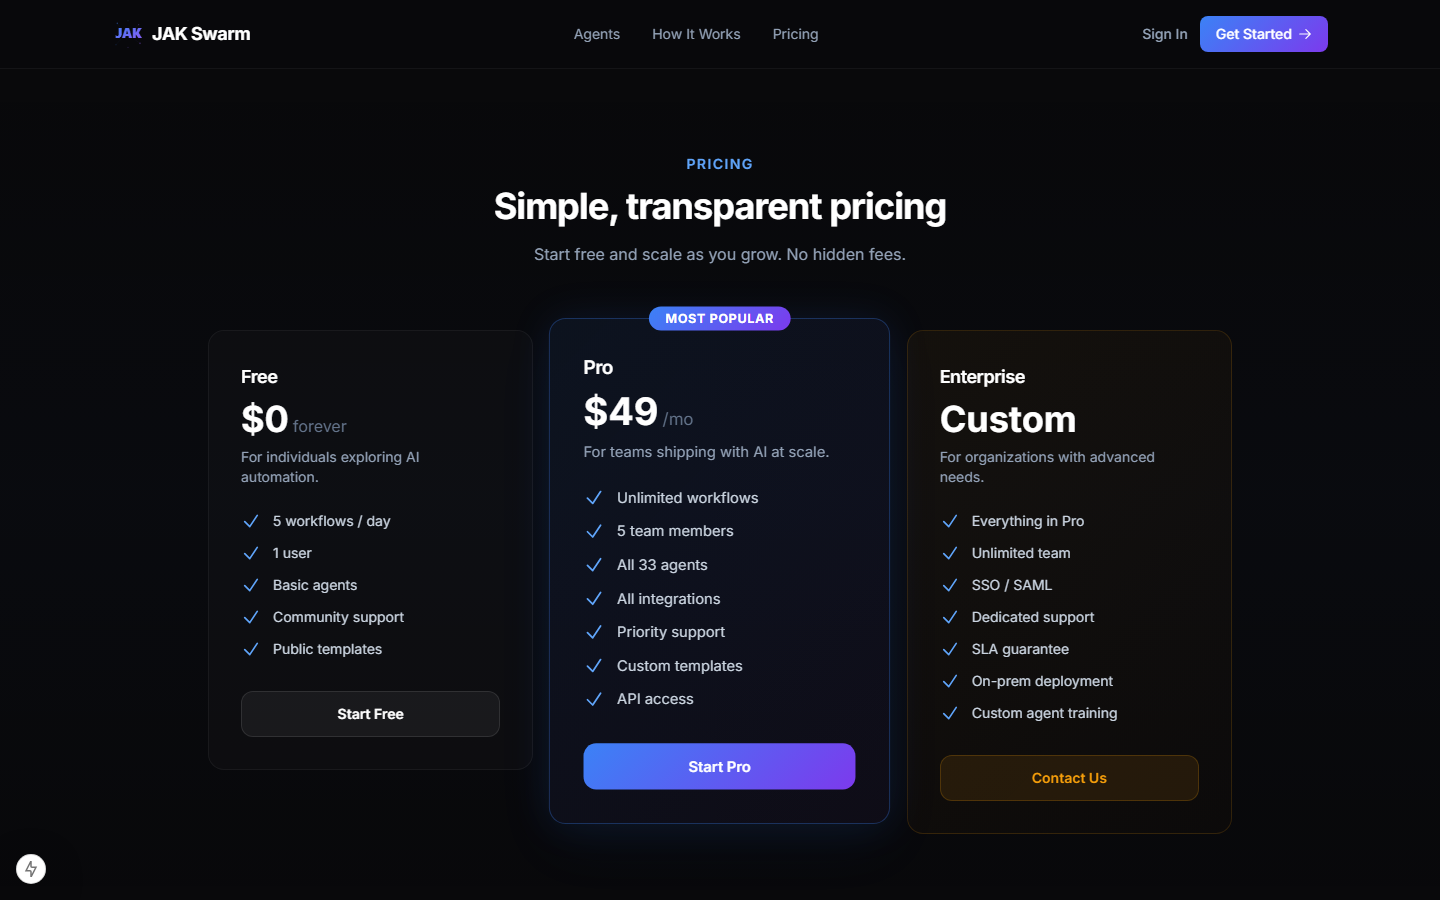
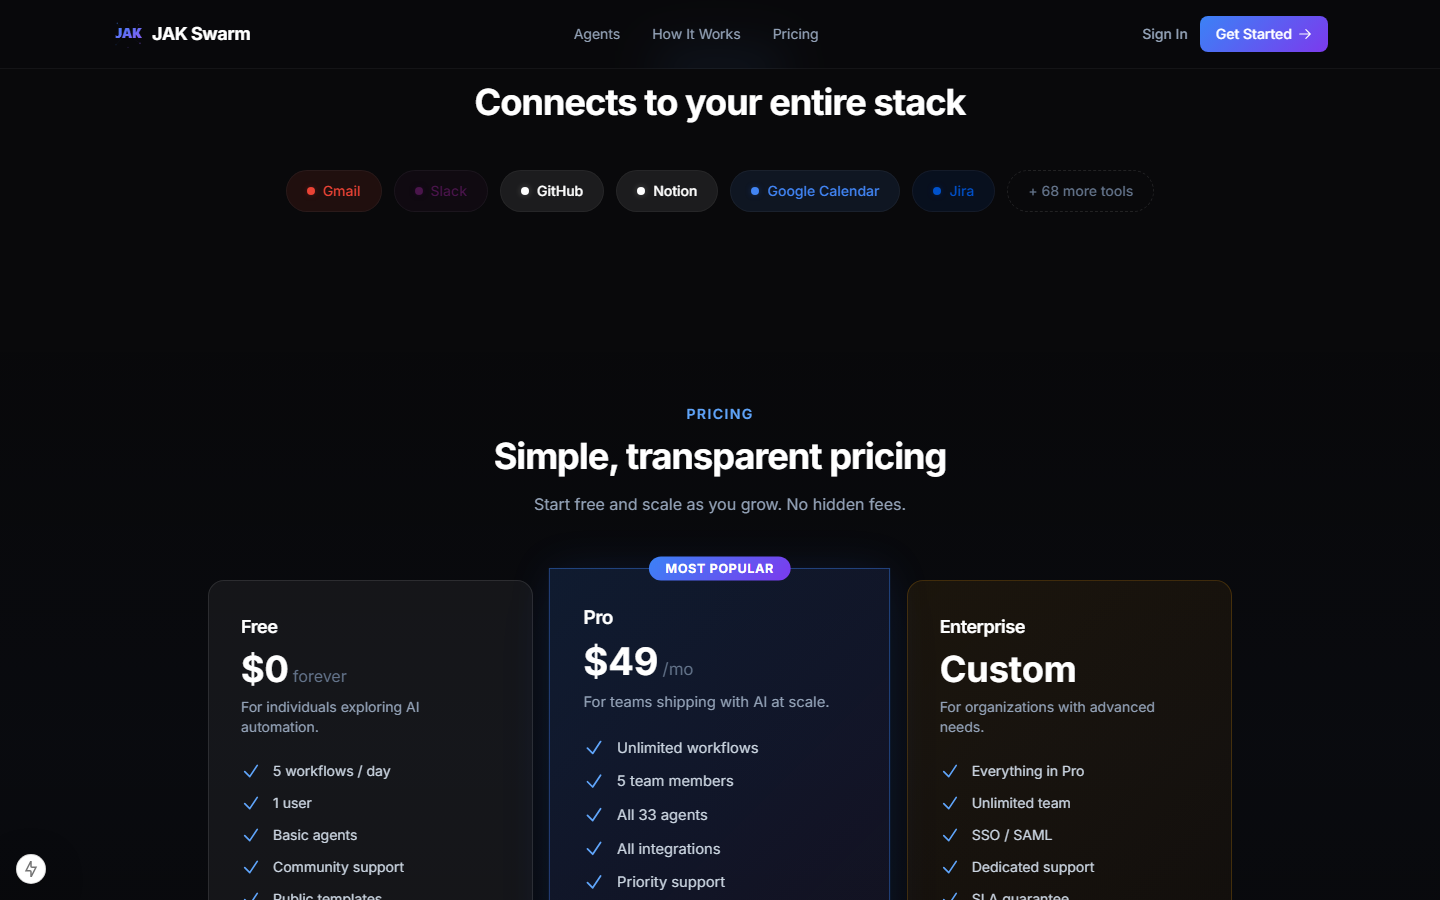
Fix UI contrast issues: agent cards visible, pricing cards brighter
- Fixed glass-card opacity from 0.03 to 0.06 (cards now visible on dark bg)
- Fixed animate-fade-up: removed initial opacity:0 that made cards invisible
  on fast scroll (animation now uses fill-mode:both instead)
- Boosted pricing card backgrounds (Free: 0.02→0.05, Pro: 0.08→0.15,
  Enterprise: 0.05→0.08) and border opacity
- Updated screenshots with fixed visuals
- Cleaned up temp screenshot files

Build: 11/11 | Tests: 56/56

diff --git a/apps/web/src/app/page.tsx b/apps/web/src/app/page.tsx
@@ -581,15 +581,15 @@ export default function HomePage() {
                   }`}
                   style={{
                     background: tier.highlighted
-                      ? 'linear-gradient(135deg, rgba(59,130,246,0.08), rgba(139,92,246,0.05))'
+                      ? 'linear-gradient(135deg, rgba(59,130,246,0.15), rgba(139,92,246,0.08))'
                       : tier.accent === 'gold'
-                      ? 'linear-gradient(135deg, rgba(245,158,11,0.05), rgba(217,119,6,0.02))'
-                      : 'rgba(255,255,255,0.02)',
+                      ? 'linear-gradient(135deg, rgba(245,158,11,0.08), rgba(217,119,6,0.04))'
+                      : 'rgba(255,255,255,0.05)',
                     border: tier.highlighted
-                      ? '1px solid rgba(59,130,246,0.3)'
+                      ? '1px solid rgba(59,130,246,0.4)'
                       : tier.accent === 'gold'
-                      ? '1px solid rgba(245,158,11,0.15)'
-                      : '1px solid rgba(255,255,255,0.05)',
+                      ? '1px solid rgba(245,158,11,0.2)'
+                      : '1px solid rgba(255,255,255,0.1)',
                     boxShadow: tier.highlighted
                       ? '0 0 40px rgba(59,130,246,0.1), 0 20px 60px rgba(59,130,246,0.05)'
                       : 'none',

diff --git a/apps/web/src/app/globals.css b/apps/web/src/app/globals.css
@@ -159,10 +159,10 @@
 
   /* Enhanced glassmorphism */
   .glass-card {
-    background: rgba(255, 255, 255, 0.03);
+    background: rgba(255, 255, 255, 0.06);
     backdrop-filter: blur(16px);
     -webkit-backdrop-filter: blur(16px);
-    border: 1px solid rgba(255, 255, 255, 0.08);
+    border: 1px solid rgba(255, 255, 255, 0.12);
   }
 
   .glass-card-light {
@@ -260,15 +260,14 @@
     box-shadow: 0 0 25px rgba(59, 130, 246, 0.4), 0 0 50px rgba(59, 130, 246, 0.15);
   }
 
-  /* Subtle entrance animation */
+  /* Subtle entrance animation — visible by default, enhanced with animation */
   @keyframes fade-up {
     from { opacity: 0; transform: translateY(16px); }
     to { opacity: 1; transform: translateY(0); }
   }
 
   .animate-fade-up {
-    animation: fade-up 0.5s cubic-bezier(0.33, 1, 0.68, 1) forwards;
-    opacity: 0;
+    animation: fade-up 0.6s cubic-bezier(0.33, 1, 0.68, 1) both;
   }
 
   /* Staggered children */
